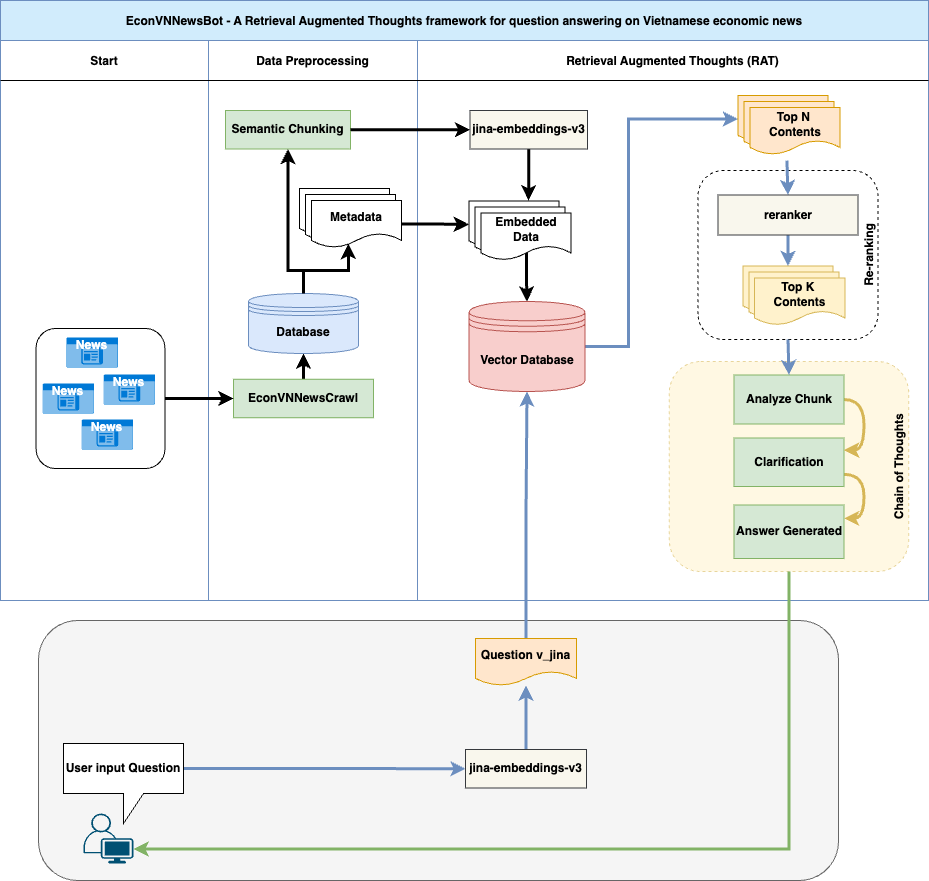
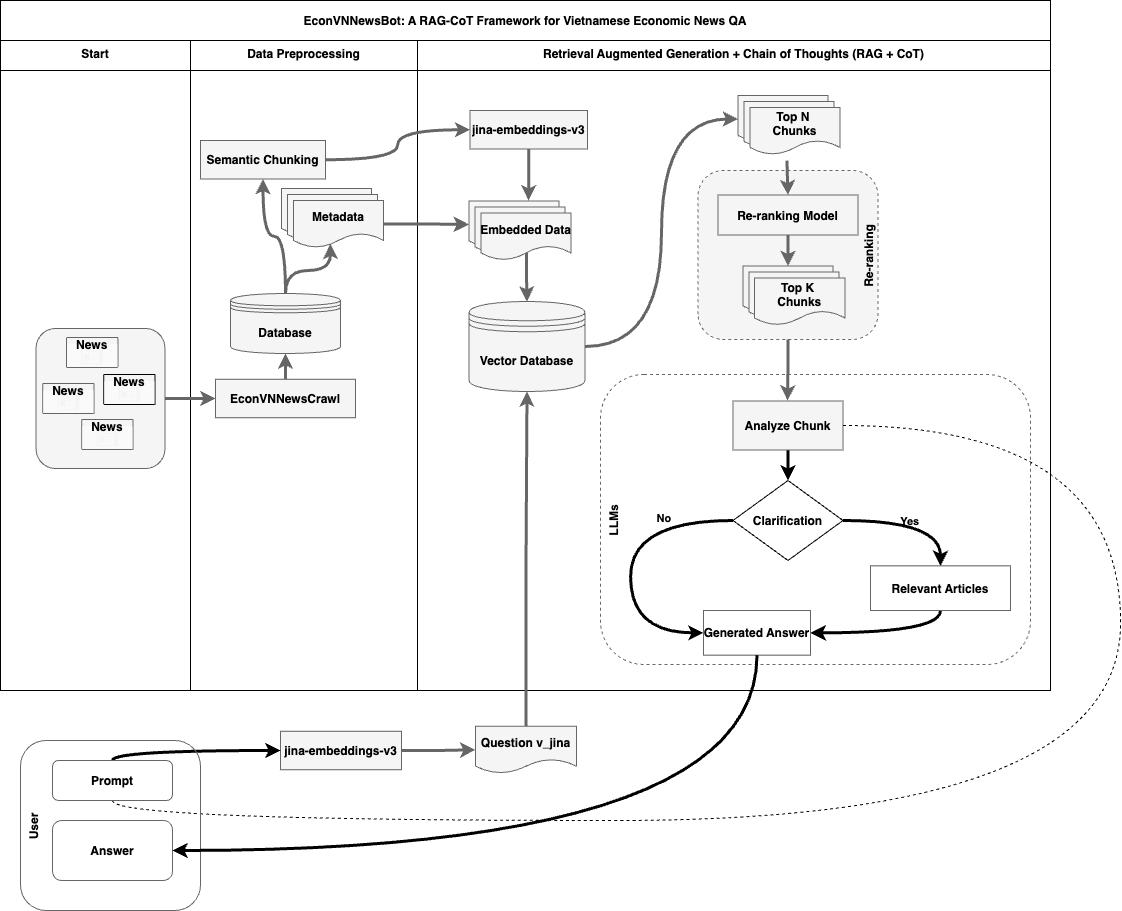
RAG+CoT adjust prompt

diff --git a/views/about_ui.py b/views/about_ui.py
@@ -6,59 +6,59 @@ def display_about_ui():
 
     st.header("Giới thiệu")
     st.write("""
-    EconVNNewsBot là một hệ thống sử dụng AI, được thiết kế để truy vấn và truy xuất tin tức kinh tế Việt Nam một cách hiệu quả. 
-    Sử dụng các mô hình AI tiên tiến và khung suy luận Dựa Trên Truy Xuất Thông Tin (RAT), bot cung cấp các câu trả lời chính xác, dựa trên ngữ cảnh 
-    thông qua việc phân tích và tổng hợp nội dung tin tức có liên quan.
+    **EconVNNewsBot** là một hệ thống sử dụng AI, được thiết kế để truy vấn và truy xuất tin tức kinh tế Việt Nam một cách hiệu quả.
+    Hệ thống kết hợp các mô hình AI tiên tiến và kỹ thuật **Dựa Trên Truy Xuất Thông Tin (RAG)** cùng với **Chuỗi Suy Nghĩ (CoT)** để 
+    cung cấp câu trả lời chính xác và dựa trên ngữ cảnh thông qua việc phân tích và tổng hợp nội dung tin tức liên quan.
     """)
 
     st.header("Quy trình hệ thống")
-    st.image("/Users/datarist/EconVNNewsBot/docs/EconVNNewsBot.png", caption="Quy trình hoạt động của hệ thống EconVNNewsBot")
+    st.image("docs/EconVNNewsBot.png", caption="Quy trình hoạt động của hệ thống EconVNNewsBot")
 
     st.write("""
-    Quy trình hoạt động của EconVNNewsBot đảm bảo rằng người dùng nhận được các câu trả lời chính xác và có lý luận hợp lý. Dưới đây là cái nhìn tổng quan về quy trình:
+    Quy trình hoạt động của **EconVNNewsBot** đảm bảo rằng người dùng nhận được câu trả lời chính xác và có tính lý luận. Dưới đây là cái nhìn tổng quan về quy trình:
 
     1. **Thu thập dữ liệu**: 
-       - Các bài báo tin tức được thu thập từ nhiều nguồn tin kinh tế Việt Nam khác nhau bằng mô-đun **EconVNNewsCrawl**.
-       - Các bài báo này được lưu trữ trong cơ sở dữ liệu tập trung để phân tích.
+       - Các bài báo tin tức được thu thập từ nhiều nguồn tin kinh tế Việt Nam khác nhau qua mô-đun **EconVNNewsCrawl**.
+       - Những bài báo này được lưu trữ trong một cơ sở dữ liệu tập trung để phục vụ cho việc phân tích.
 
     2. **Phân đoạn ngữ nghĩa**:
-       - Các bài báo được chia thành các đoạn ngữ nghĩa có ý nghĩa để truy xuất chính xác, đảm bảo rằng mỗi phần nội dung đều có liên quan đến truy vấn của người dùng.
+       - Các bài báo dài được chia thành các đoạn ngữ nghĩa nhỏ hơn, giúp truy xuất chính xác và đảm bảo rằng mỗi đoạn đều liên quan đến truy vấn của người dùng.
 
     3. **Nhúng văn bản**:
-       - Các đoạn văn bản được chuyển đổi thành các biểu diễn vector thông qua một **Mô hình nhúng văn bản** và được lưu trữ trong **Cơ sở dữ liệu vector** để tìm kiếm tương đồng nhanh chóng.
+       - Các đoạn văn bản được chuyển đổi thành các biểu diễn vector thông qua **Mô hình nhúng văn bản (jina-embeddings-v3)** và lưu trữ trong **Cơ sở dữ liệu vector** để tìm kiếm nhanh chóng.
 
     4. **Xử lý truy vấn**:
-       - Các truy vấn của người dùng được chuyển đổi thành các biểu diễn vector bằng cách sử dụng một **Mô hình nhúng câu hỏi** để so sánh hiệu quả.
+       - Các truy vấn của người dùng cũng được chuyển đổi thành vector sử dụng **Mô hình nhúng câu hỏi**, để dễ dàng so sánh với dữ liệu đã lưu.
 
-    5. **Tìm kiếm & truy xuất vector**:
-       - Hệ thống sẽ tìm kiếm trong **Cơ sở dữ liệu vector** để tìm và xếp hạng những nội dung liên quan nhất dựa trên độ tương đồng với truy vấn.
+    5. **Tìm kiếm và truy xuất vector**:
+       - Hệ thống tìm kiếm trong **Cơ sở dữ liệu vector** để xác định và xếp hạng những nội dung có độ tương đồng cao nhất với truy vấn.
 
-    6. **Suy luận Chuỗi Suy Nghĩ (CoT)**:
-       - Các kết quả hàng đầu được phân tích bằng mô-đun **Chuỗi Suy Nghĩ (CoT)**, tổng hợp thông tin từ nhiều nguồn để tạo ra một câu trả lời mạch lạc và mang tính thông tin.
+    6. **Chuỗi Suy Nghĩ (CoT)**:
+       - Các kết quả hàng đầu được phân tích và tổng hợp qua mô-đun **Chuỗi Suy Nghĩ (CoT)**, kết hợp thông tin từ nhiều nguồn để tạo ra câu trả lời mạch lạc và đầy đủ.
 
     7. **Sinh câu trả lời**:
-       - Một câu trả lời cuối cùng được tạo ra, được hỗ trợ bởi thông tin từ nhiều bài viết và trích dẫn các nguồn tham khảo.
+       - Câu trả lời cuối cùng được tạo ra, dựa trên thông tin từ nhiều bài viết, cùng với các nguồn tham khảo để tăng tính minh bạch và độ tin cậy.
     """)
 
     st.header("Tính năng chính")
     st.write("""
-    - **EconVNNewsCrawl**: Crawler web tùy chỉnh để thu thập tin tức kinh tế Việt Nam.
-    - **Phân đoạn ngữ nghĩa**: Chia nhỏ các bài báo lớn để truy xuất nội dung tốt hơn.
-    - **Cơ sở dữ liệu vector**: Sử dụng Pinecone để tìm kiếm và truy xuất dựa trên vector hiệu quả.
-    - **Suy luận Chuỗi Suy Nghĩ**: Tổng hợp nội dung từ nhiều bài viết để đưa ra các câu trả lời rõ ràng và có căn cứ.
+    - **EconVNNewsCrawl**: Crawler web tùy chỉnh để thu thập tin tức kinh tế Việt Nam từ các nguồn đáng tin cậy.
+    - **Phân đoạn ngữ nghĩa**: Chia nhỏ các bài báo dài thành các đoạn có ý nghĩa để cải thiện hiệu quả truy xuất.
+    - **Cơ sở dữ liệu vector**: Sử dụng Pinecone cho tìm kiếm và truy xuất vector một cách hiệu quả.
+    - **Chuỗi Suy Nghĩ (CoT)**: Tổng hợp thông tin từ nhiều bài báo để đưa ra các câu trả lời chi tiết và có căn cứ.
     """)
 
     st.header("Đội ngũ dự án")
     st.write("""
-    EconVNNewsBot được phát triển bởi một đội ngũ gồm các kỹ sư AI và chuyên gia trong lĩnh vực:
+    **EconVNNewsBot** được phát triển bởi một nhóm kỹ sư AI và các chuyên gia trong lĩnh vực kinh tế:
+    - **Lê Nguyễn Đăng Khoa**
     - **Trần Tuyết Huê** 
-    - **Lê Nguyễn Đăng Khoa** 
-    - **Phạm Minh Châu** - Quản lý dự án
+    - **Phạm Minh Châu** 
     """)
 
     st.header("Thông tin liên hệ")
     st.write("""
-    Mọi thắc mắc hoặc góp ý, vui lòng liên hệ chúng tôi qua:
+    Mọi thắc mắc hoặc đóng góp ý kiến, vui lòng liên hệ chúng tôi qua:
     - **Email**: khoale.aius@gmail.com.vn
     - **Điện thoại**: +84 903 696 581
     """)

diff --git a/controller/cot_controller.py b/controller/cot_controller.py
@@ -25,14 +25,27 @@ class CoTController:
         published_date = chunk.get('published_date', 'N/A')
 
         # Create a prompt to analyze the chunk with specific instructions to avoid hallucination
-        prompt_chunk = f"""
-        Analyze the following article published on {published_date} with title '{title}' :
+        # prompt_chunk = f"""
+        # Analyze the following article published on {published_date} with title '{title}' :
         
-        Content: {content}
+        # Content: {content}
 
-        How does this chunk help answer the question: '{question}'?
+        # How does this chunk help answer the question: '{question}'?
 
-        Focus on the economic context and important details mentioned in the chunk. Please ensure the analysis is accurate and relevant to the publication date. If there is no relevant information to answer the question '{question}', please return 'no relevant information' from {source}. Do not add any information that is not present in the chunk content.
+        # Focus on the economic context and important details mentioned in the chunk. Please ensure the analysis is accurate and relevant to the publication date. If there is no relevant information to answer the question '{question}', please return 'no relevant information' from {source}. Do not add any information that is not present in the chunk content.
+        # """
+        prompt_chunk = f"""
+        Step-by-Step Analysis:
+
+        1. **Identify Key Information**: Based on the content provided below, identify the main points related to the query '{question}'.
+        
+        Content: "{content}"
+        
+        2. **Economic Relevance**: Evaluate how this information is relevant to the economic context of the question, with attention to any details about infrastructure, foreign investments, market trends, or economic recovery.
+
+        3. **Answer Contribution**: Explain how this chunk contributes to answering the question '{question}'. If there is no relevant information in this chunk, please respond with 'no relevant information' and specify the source as {source}.
+
+        Note: Ensure that the analysis is accurate, relevant to the publication date ({published_date}), and avoid adding any information not present in the content.
         """
         
         # Call OpenAI API to generate the analysis
@@ -89,11 +102,27 @@ class CoTController:
                 citation_tracker.add(citation_key)  # Mark as cited
 
         # Combine the analyses and answer the question
-        final_prompt = f"Based on the following analyses of multiple articles:\n\n{chain_of_thoughts}\n"
-        final_prompt += f"Please synthesize the information and answer the following question: '{question}'.\n"
-        final_prompt += "Ensure the answer is based on the combined analyses and cite the relevant articles using their publication dates and titles. If there is no relevant information to answer the question '{question}', please return 'Curently we have no relevant information' from {source}. Do not add any information that is not present in the article content."
-        final_prompt += " The answer should be in Vietnamese."
+        # final_prompt = f"Based on the following analyses of multiple articles:\n\n{chain_of_thoughts}\n"
+        # final_prompt += f"Please synthesize the information and answer the following question: '{question}'.\n"
+        # final_prompt += "Ensure the answer is based on the combined analyses and cite the relevant articles using their publication dates and titles. If there is no relevant information to answer the question '{question}', please return 'Curently we have no relevant information' from {source}. Do not add any information that is not present in the article content."
+        # final_prompt += " The answer should be in Vietnamese."
+        final_prompt = f"""
+        Based on the following step-by-step analyses of multiple articles:
 
+        {chain_of_thoughts}
+
+        Please synthesize the information and answer the question: '{question}'.
+
+        Steps for Synthesis:
+        1. Summarize the key points from each analysis that are relevant to the question.
+        2. Identify any recurring themes or important economic indicators mentioned across the articles.
+        3. Provide a coherent answer that combines these insights, ensuring it is contextually relevant and accurate.
+        4. Cite the relevant articles by their titles and publication dates. If there is no relevant information to answer the question, please respond with 'Currently we have no relevant information' and specify the source. Avoid adding any information not present in the article content.
+
+        Note: The answer should be in Vietnamese.
+        """
+        
+        
         # Call OpenAI API to generate the final answer
         final_response = self.client.chat.completions.create(
             model="gpt-4-turbo",
@@ -101,7 +130,7 @@ class CoTController:
                 {"role": "system", "content": "You are an expert in Vietnamese economic news analysis. Please provide detailed and precise answers based on the information provided."},
                 {"role": "user", "content": final_prompt}
             ],
-            max_tokens=1000,
+            max_tokens=700,
             temperature=0.7
         )
 

diff --git a/README.md b/README.md
@@ -1,6 +1,6 @@
 # EconVNNewsBot
 
-**EconVNNewsBot** is an advanced question-answering system that leverages **Retrieval-Augmented Generation (RAG)** and **Chain of Thought (CoT) reasoning** to process queries related to Vietnamese economic news. This system is designed to efficiently retrieve relevant articles and synthesize comprehensive answers, offering contextually accurate and precise information. By combining cutting-edge NLP techniques such as vector-based retrieval, re-ranking, and thought reasoning, EconVNNewsBot addresses the complexities of economic news with ease.
+**EconVNNewsBot** is an advanced question-answering system that utilizes **Retrieval-Augmented Generation (RAG)** and **Chain of Thought (CoT) reasoning** to process queries on Vietnamese economic news. This system efficiently retrieves relevant articles and synthesizes comprehensive answers, delivering contextually accurate and precise information. By combining cutting-edge NLP techniques such as vector-based retrieval, re-ranking, and thought reasoning, EconVNNewsBot addresses the complexities of economic news.
 
 ---
 
@@ -20,41 +20,37 @@
 
 ## Project Overview
 
-EconVNNewsBot is built to streamline the querying of Vietnamese economic news. With a dataset encompassing over 268,000 articles from major news sources like VNExpress, VietnamNet, and CafeF, the system provides a robust solution for answering economic queries with high accuracy and context. By combining the power of **semantic chunking**, **vector-based retrieval**, and **re-ranking models**, it ensures that users receive reliable answers, even for complex queries.
+EconVNNewsBot streamlines the querying of Vietnamese economic news. With a dataset of over 268,000 articles from sources such as VNExpress, VietnamNet, and CafeF, the system provides a robust solution for delivering accurate and relevant economic information. Utilizing **semantic chunking**, **vector-based retrieval**, and **re-ranking models**, it ensures that users receive comprehensive answers, even for complex queries.
 
 **Key Highlights**:
 
-- **Retrieval-Augmented Generation (RAG)** methodology ensures relevant article retrieval and refined answers using multiple sources.
-- Utilization of the **Chain of Thought (CoT)** mechanism to break down complex questions into manageable reasoning steps.
-- A user-friendly **Streamlit-based interface** allows for intuitive query input, filtering by date, source, and category.
-
-![EconVNNewsBot Architecture](docs/EconVNNewsBot.png)
-
-The above figure shows the overall architecture of the EconVNNewsBot system, which integrates multiple components such as EconVNNewsCrawl for data collection, semantic chunking, embedding-based retrieval, and Chain of Thought reasoning to generate detailed answers.
+- **Retrieval-Augmented Generation (RAG)** for effective retrieval and answer refinement from multiple sources.
+- **Chain of Thought (CoT)** mechanism to decompose complex queries into logical steps.
+- Intuitive **Streamlit-based interface** for easy query input and filtering by date, source, and category.
 
 ---
 
 ## Features
 
-- **Advanced Economic Query Processing**: The system allows users to ask natural language questions related to Vietnamese economic news and generates detailed answers by retrieving and analyzing relevant news articles.
-- **Chain of Thought Reasoning**: The CoT mechanism ensures that answers are synthesized by reasoning through multiple articles, ensuring coherent and in-depth responses.
-- **Streamlit UI**: The interface provides easy query input and filtering options to refine search results based on category, date, or source.
-- **Re-ranking and Semantic Chunking**: The system uses advanced Vietnamese embeddings and cosine similarity to prioritize the most relevant content, offering answers that are contextually relevant and precise.
-- **Comprehensive Dataset**: The underlying dataset includes articles from 2020 to 2024, ensuring that answers are based on the most up-to-date information available.
+- **Advanced Economic Query Processing**: Handles natural language questions related to Vietnamese economic news, providing in-depth answers by retrieving and analyzing relevant articles.
+- **Chain of Thought Reasoning**: Synthesizes answers by reasoning across multiple articles to ensure coherence and depth.
+- **Streamlit UI**: User-friendly interface with options for query input and filtering based on category, date, or source.
+- **Re-ranking and Semantic Chunking**: Uses Vietnamese embeddings and cosine similarity to prioritize relevant content, offering precise, contextually relevant answers.
+- **Comprehensive Dataset**: Includes articles from 2020 to 2024, ensuring answers are based on up-to-date information.
 
 ---
 
 ## System Architecture
 
-EconVNNewsBot’s architecture consists of several components working in unison to deliver accurate and contextually relevant answers:
+The architecture of EconVNNewsBot comprises several components working in unison to deliver accurate and contextually relevant answers:
 
-1. **Data Collection**: The **EconVNNewsCrawl** tool aggregates Vietnamese economic news from multiple reliable sources, ensuring comprehensive data coverage.
-2. **Data Preprocessing and Chunking**: Collected articles are semantically chunked into manageable pieces, which are then embedded using the **jina-embeddings-v3** model.
-3. **Vector Database**: Pinecone is used to store the embeddings of articles, enabling fast and efficient similarity searches between user queries and articles.
-4. **Re-ranking and CoT**: The top articles retrieved from Pinecone are reranked based on relevance using the **jina-reranker-v2-base-multilingual** model. CoT then processes the highest-ranked articles to synthesize an answer.
-5. **Frontend UI**: The Streamlit-based interface allows users to input queries and filter search results based on multiple criteria.
+1. **Data Collection**: The **EconVNNewsCrawl** tool gathers Vietnamese economic news from reliable sources.
+2. **Data Preprocessing and Chunking**: Articles are semantically chunked and embedded using the **jina-embeddings-v3** model.
+3. **Vector Database**: Embeddings are stored in Pinecone, enabling efficient similarity-based retrieval.
+4. **Re-ranking and CoT**: The retrieved articles are re-ranked with the **jina-reranker-v2-base-multilingual** model, and CoT processes the top articles to generate a coherent answer.
+5. **Frontend UI**: The Streamlit-based interface allows users to input queries and filter results.
 
-Below is a visual representation of how the system operates from data collection to answer generation:
+Below is a visual representation of the system's workflow:
 
 ![EconVNNewsBot System Architecture](docs/UI_system.png)
 
@@ -63,8 +59,6 @@ Below is a visual representation of how the system operates from data collection
 ## Installation
 
 ### Prerequisites
-
-To install and run EconVNNewsBot, the following dependencies are required:
 
 - Python 3.8 or higher
 - Pip
@@ -108,24 +102,14 @@ To install and run EconVNNewsBot, the following dependencies are required:
 To start the EconVNNewsBot application, use the following command:
 
 ```bash
-streamlit run views/streamlit_ui.py
+streamlit run app.py
 ```
 
-Once the app is launched, users can:
+Upon launching the app, users can:
 
 - **Submit queries** on Vietnamese economic news.
-- **Filter results** by category, source, and date to narrow down relevant articles.
+- **Filter results** by category, source, and date to refine relevant articles.
 - **View synthesized answers** with references to the original sources.
-
-![EconVNNewsBot User Interface](docs/UI_system.png)
-
-In the figure above:
-
-1. **Input Options**: Users can select categories, sources, and date ranges to customize their queries.
-2. **Date Filters**: Specify a date range to limit search results to a specific time period.
-3. **Query History**: View previously submitted queries for easy reference.
-4. **Detailed Answer**: The system retrieves and displays detailed answers along with references.
-5. **References**: All answers are sourced from the most relevant articles, which are displayed for verification and further reading.
 
 ---
 
@@ -134,20 +118,16 @@ In the figure above:
 ```bash
 EconVNNewsBot/
 │
-├── controller/                # Core logic for managing the QA process
+├── controller/                # Core logic for managing QA process
 │   ├── categories.csv          # List of categories for filtering
 │   ├── cot_controller.py       # Chain of Thought reasoning module
 │   ├── question_controller.py  # Manages question-answering pipeline
 │   ├── rag_controller.py       # Handles retrieval and re-ranking of articles
 │   ├── source.csv              # News sources for filtering
 │
-├── docs/
-│   ├── EconVNNewsBot.png        # System architecture diagram
-│   ├── UI_system.png            # User interface screenshot
-├── docs/QA_test_result                       # Documentation and images
-│   ├──├── 
-│   ├──├── QA_1.png   
-│   ├──├── ...
+├── docs/                       # Documentation and images
+│   ├── EconVNNewsBot.png       # System architecture diagram
+│   ├── UI_system.png           # User interface screenshot
 │
 ├── src/                        # Source code for embedding models
 │   └── model.py                # Embedding model using Vietnamese embeddings
@@ -168,22 +148,20 @@ EconVNNewsBot/
 
 ## Contributing
 
-Contributions are welcome to further improve the system’s functionality and performance. To contribute:
+Contributions are welcome to further improve the system’s functionality. To contribute:
 
 1. **Fork the repository**.
 2. **Create a new branch** with your feature or fix.
 3. **Submit a pull request** with a detailed explanation of your changes.
 
-Please ensure that your code adheres to the project’s style guidelines and includes appropriate tests where necessary.
-
 ---
 
 ## License
 
-This project is licensed under the MIT License. For more details, refer to the [LICENSE](LICENSE) file.
+This project is licensed under the MIT License. See the [LICENSE](LICENSE) file for details.
 
 ---
 
 ## Contact
 
-For inquiries or issues, please feel free to open an issue on GitHub or contact the project maintainers through my contact: khoale.maiu@gmail.com
+For inquiries or issues, open an issue on GitHub or contact the project maintainer at khoale.maiu@gmail.com.
